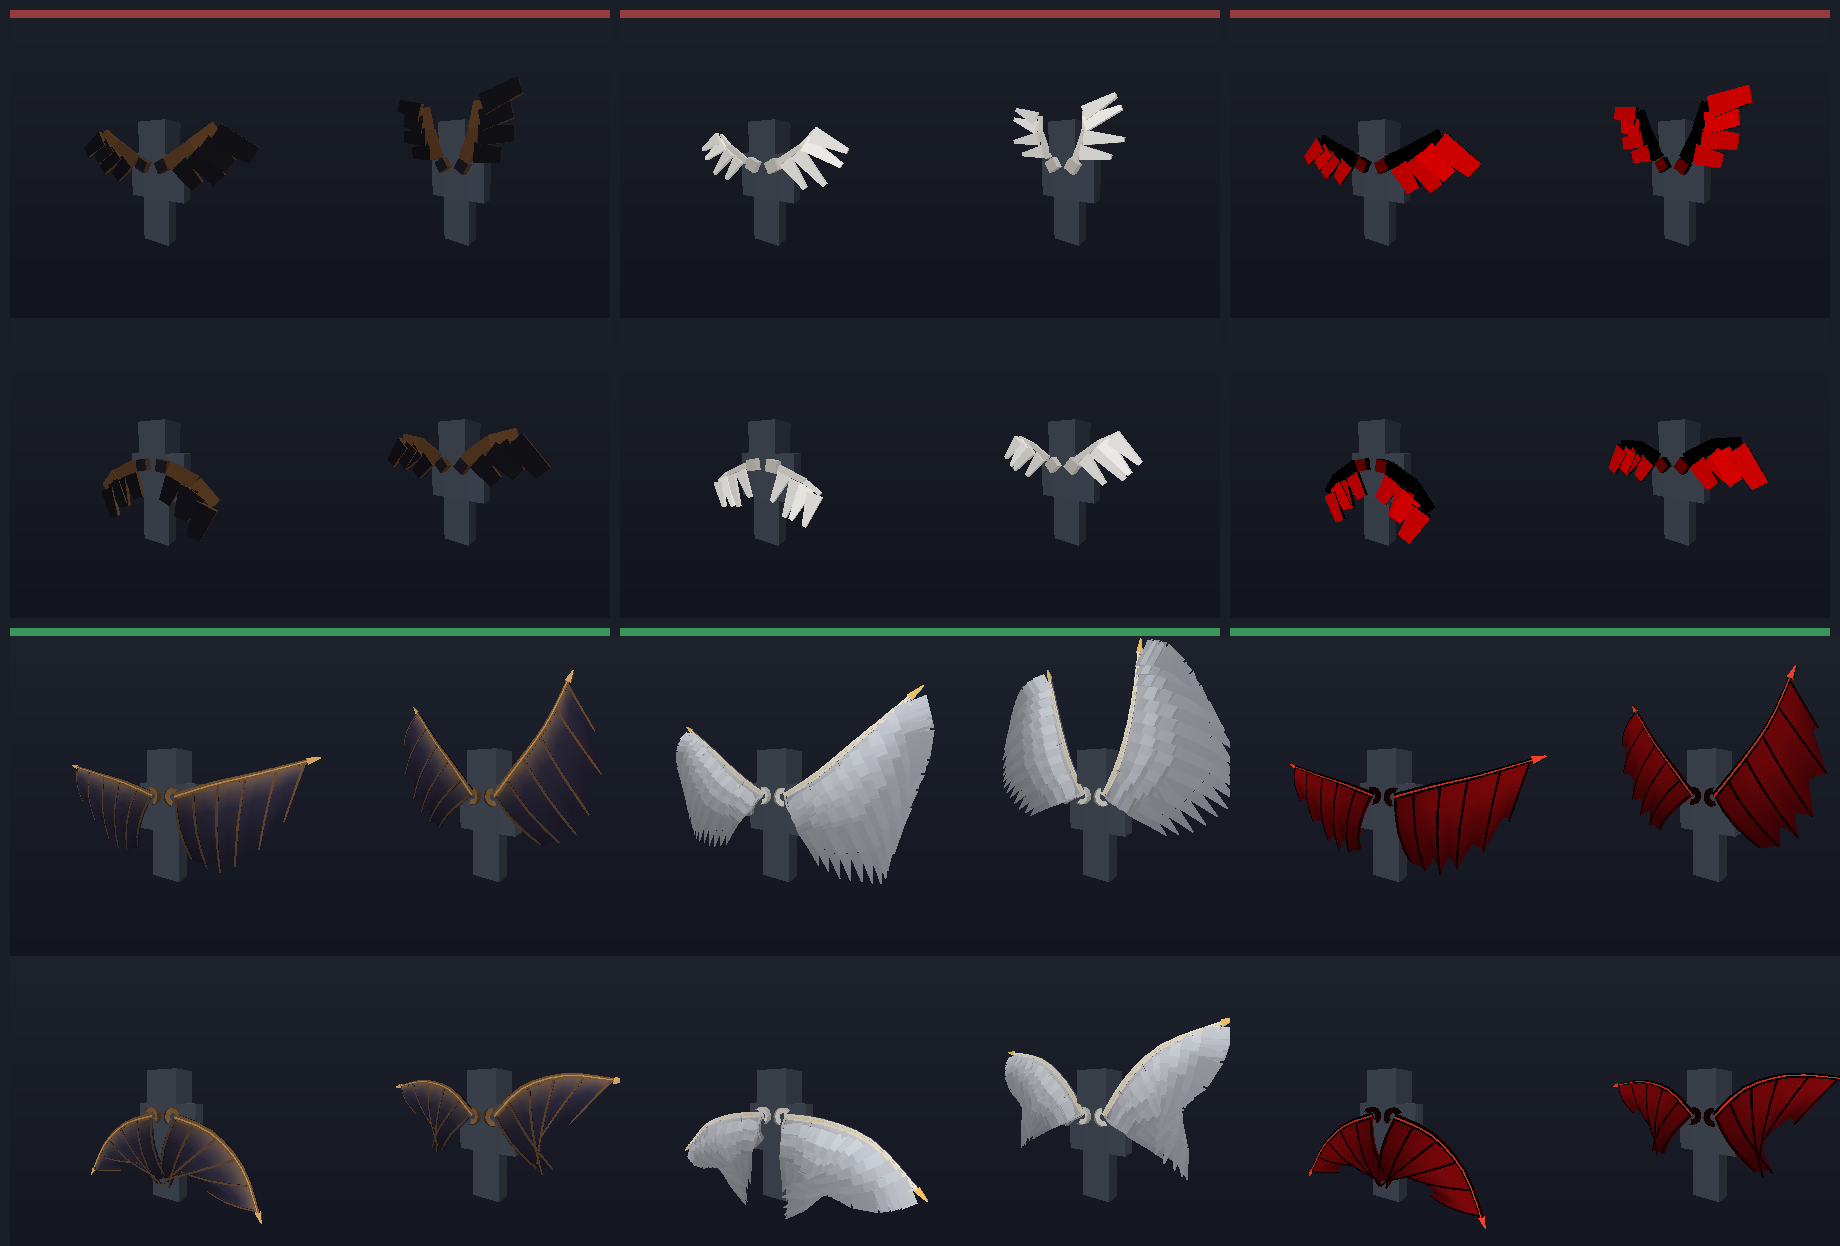
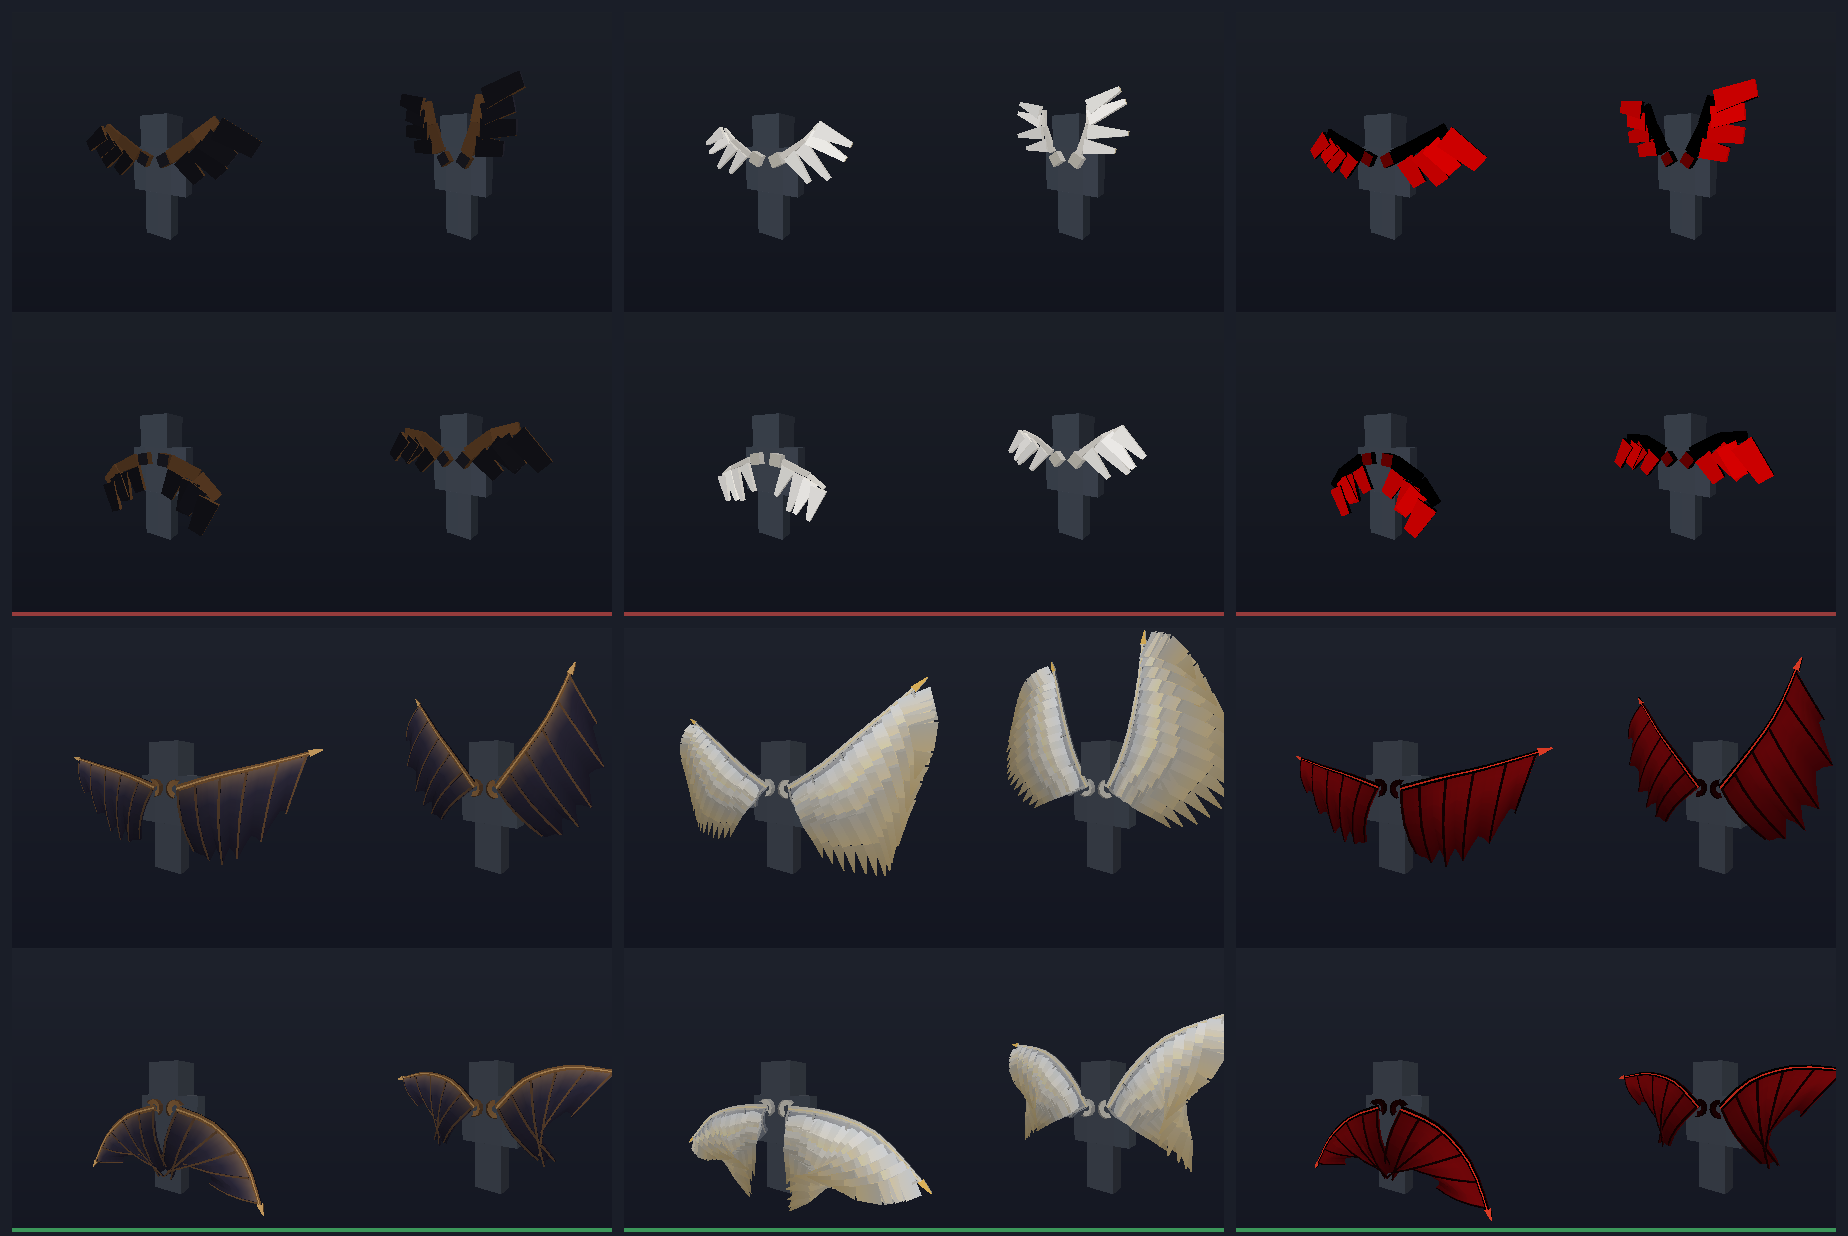
wings: fix washed-out front view (headlight direction, depth material, palette)
Three separate causes made the wings look like a pale sheet painted over the
player whenever the camera faced them from the front:

1. Lighting used the wrong space. The overlay builds its vertices
   camera-relative but accumulated the shading center from WORLD points and
   still negated it, so the headlight actually pointed at the world origin.
   The wings then changed brightness as the player walked around. Added
   wings::toCameraVector(camPos, surfaceCenter) so the two spaces cannot be
   mixed up again, plus host tests that shade the same wing at two world
   positions and assert the result is identical.

2. The fill material was not depth tested. ensureMaterials() preferred
   ui_fill_color, which blockoutline.cpp already documents as having no
   depth test on current builds - that is why the wings / body clipped through
   each other when seen from the front. selection_box (the material the game
   uses for the block highlight) is now preferred.

3. The palette and light model clipped to flat white. The headlight peaked at
   1.18x over an already near-white Angel palette, so everything saturated to
   255 and the gradient disappeared. The light now peaks just under 1.0 (it
   shades the palette down instead of blowing it up), the pale styles got
   deeper base tones, and the body-facing side is now a genuinely darker
   shadowed underside instead of a lighter version of the back.

Also darkened Phoenix (it had gone gold) and regenerated the docs images.

diff --git a/src/modules/visual/wings_design.hpp b/src/modules/visual/wings_design.hpp
@@ -107,11 +107,11 @@ inline constexpr FaceColor kDragonFeatherTip{224, 176, 108};
 inline constexpr FaceColor kDragonJointInner{96, 66, 40};
 
 // Angel: warm-white feathers with gold primary tips.
-inline constexpr FaceColor kAngelFrame{248, 244, 234};
-inline constexpr FaceColor kAngelLead{255, 253, 246};
-inline constexpr FaceColor kAngelBack{190, 192, 198};
-inline constexpr FaceColor kAngelFront{206, 208, 214};
-inline constexpr FaceColor kAngelTrail{142, 146, 156};
+inline constexpr FaceColor kAngelFrame{232, 228, 216};
+inline constexpr FaceColor kAngelLead{244, 240, 228};
+inline constexpr FaceColor kAngelBack{170, 174, 184};
+inline constexpr FaceColor kAngelFront{192, 196, 204};
+inline constexpr FaceColor kAngelTrail{120, 126, 138};
 inline constexpr FaceColor kAngelTip{255, 206, 104};
 inline constexpr FaceColor kAngelGlow{255, 250, 226};
 inline constexpr FaceColor kAngelMembraneOuter{190, 192, 198};
@@ -147,9 +147,9 @@ inline constexpr FaceColor kBatJointInner{38, 35, 48};
 
 // Butterfly: pink forewing over an orange hindwing, cyan accents.
 inline constexpr FaceColor kButterflyFrame{92, 44, 146};
-inline constexpr FaceColor kButterflyLead{255, 186, 226};
-inline constexpr FaceColor kButterflyBack{248, 116, 174};
-inline constexpr FaceColor kButterflyFront{255, 168, 208};
+inline constexpr FaceColor kButterflyLead{250, 172, 216};
+inline constexpr FaceColor kButterflyBack{236, 100, 160};
+inline constexpr FaceColor kButterflyFront{246, 148, 194};
 inline constexpr FaceColor kButterflyTrail{124, 202, 255};
 inline constexpr FaceColor kButterflyTip{255, 224, 128};
 inline constexpr FaceColor kButterflyGlow{255, 216, 240};
@@ -161,22 +161,22 @@ inline constexpr FaceColor kButterflyJointInner{126, 66, 172};
 // Phoenix: fiery orange primaries with gold tips.
 inline constexpr FaceColor kPhoenixFrame{176, 92, 22};
 inline constexpr FaceColor kPhoenixLead{255, 186, 66};
-inline constexpr FaceColor kPhoenixBack{196, 62, 24};
-inline constexpr FaceColor kPhoenixFront{226, 110, 36};
-inline constexpr FaceColor kPhoenixTrail{138, 26, 8};
+inline constexpr FaceColor kPhoenixBack{184, 52, 18};
+inline constexpr FaceColor kPhoenixFront{206, 84, 26};
+inline constexpr FaceColor kPhoenixTrail{118, 20, 6};
 inline constexpr FaceColor kPhoenixTip{255, 240, 148};
 inline constexpr FaceColor kPhoenixGlow{255, 196, 80};
-inline constexpr FaceColor kPhoenixMembraneOuter{196, 62, 24};
-inline constexpr FaceColor kPhoenixMembraneInner{226, 110, 36};
+inline constexpr FaceColor kPhoenixMembraneOuter{184, 52, 18};
+inline constexpr FaceColor kPhoenixMembraneInner{206, 84, 26};
 inline constexpr FaceColor kPhoenixFeatherTip{255, 240, 148};
 inline constexpr FaceColor kPhoenixJointInner{150, 70, 14};
 
 // Fairy: translucent cyan/pink petals.
 inline constexpr FaceColor kFairyFrame{110, 214, 204};
-inline constexpr FaceColor kFairyLead{232, 255, 252};
-inline constexpr FaceColor kFairyBack{142, 224, 246};
-inline constexpr FaceColor kFairyFront{246, 202, 252};
-inline constexpr FaceColor kFairyTrail{92, 176, 198};
+inline constexpr FaceColor kFairyLead{222, 250, 246};
+inline constexpr FaceColor kFairyBack{126, 208, 234};
+inline constexpr FaceColor kFairyFront{234, 184, 244};
+inline constexpr FaceColor kFairyTrail{78, 158, 184};
 inline constexpr FaceColor kFairyTip{255, 255, 250};
 inline constexpr FaceColor kFairyGlow{210, 250, 255};
 inline constexpr FaceColor kFairyMembraneOuter{142, 224, 246};

diff --git a/src/modules/visual/wings_surface.hpp b/src/modules/visual/wings_surface.hpp
@@ -234,14 +234,19 @@ inline FaceColor membraneBackColor(const WingDesign& d, float u, float v) {
     return c;
 }
 
-// Seen from the body: the same sheet lit through (backLight), so the wings do
-// not turn into a black slab when the camera swings in front of them.
+// Seen from in front of the player. This is the side the body shadows, so it is
+// deliberately a darker, flatter version of the palette: no bright leading
+// highlight and no tip colour. Solving it that way keeps the wings readable
+// from a front-facing camera without turning them into a pale sheet that
+// competes with the sky (backLight only softens how dark it gets).
 inline FaceColor membraneFrontColor(const WingDesign& d, float u, float v) {
-    FaceColor c = lerpColor(d.front, d.trail,
-                            std::pow(clamp01(v), 0.95f) * (0.80f - 0.35f * clamp01(d.backLight)));
-    c = lerpColor(c, d.lead, (1.0f - smoothstep(0.0f, 0.30f, v)) * 0.40f);
-    c = lerpColor(c, d.tip, clamp01(d.backLight) * 0.22f * (1.0f - smoothstep(0.1f, 0.6f, v)));
-    c = lerpColor(c, d.trail, (1.0f - smoothstep(0.02f, 0.32f, u)) * 0.28f);
+    const float soften = 1.0f - 0.22f * clamp01(d.backLight);
+    FaceColor c = lerpColor(d.front, d.trail, 0.42f + 0.34f * clamp01(v));
+    // A hint of the leading edge, heavily damped: enough to show the arm line,
+    // not enough to blow out.
+    c = lerpColor(c, d.lead, (1.0f - smoothstep(0.0f, 0.26f, v)) * 0.16f);
+    c = shadeFace(c, soften);
+    c = lerpColor(c, d.trail, (1.0f - smoothstep(0.03f, 0.40f, u)) * 0.30f);
     return c;
 }
 
@@ -555,6 +560,10 @@ inline void addFeathers(Sink& sink, const Vec3 joint[4], const WingDesign& d, co
                 FaceColor f1 = shadeFace(lerpColor(rootFront, d.tip, std::pow(k1, 1.7f)), tint);
                 FaceColor b0 = shadeFace(lerpColor(root, d.trail, 0.30f + 0.25f * k0), tint);
                 FaceColor b1 = shadeFace(lerpColor(root, d.trail, 0.30f + 0.25f * k1), tint);
+                // Front (body-facing) side: the same vane seen in shadow, so it
+                // stays a step darker than the back instead of glowing gold.
+                FaceColor f0Shadow = shadeFace(b0, 0.92f);
+                FaceColor f1Shadow = shadeFace(b1, 0.92f);
                 // Dark rim on the last segment: the shadow each quill casts on
                 // the row below is what makes the feather layers visible.
                 if (s == kFeatherSegments - 1) {
@@ -563,8 +572,8 @@ inline void addFeathers(Sink& sink, const Vec3 joint[4], const WingDesign& d, co
                     b0 = lerpColor(b0, d.trail, 0.22f);
                     b1 = lerpColor(b1, d.trail, 0.42f);
                 }
-                sink.blade(pts[s], pts[s + 1], w0, w1, Vec3{0.0f, 0.0f, 1.0f}, f0, f1, b0, b1, u,
-                           d.glowStrength * 0.30f);
+                sink.blade(pts[s], pts[s + 1], w0, w1, Vec3{0.0f, 0.0f, 1.0f},
+                           f0Shadow, f1Shadow, f0, f1, u, d.glowStrength * 0.30f);
             }
         }
     }

diff --git a/tests/wings_shape_test.cpp b/tests/wings_shape_test.cpp
@@ -360,6 +360,43 @@ int main() {
     }
 
     // ------------------------------------------------------------------
+    // Headlight direction (regression: wings.cpp used to shade with the
+    // negated *world* center, so a wing changed brightness whenever the
+    // player walked somewhere else and looked washed out from the front).
+    // ------------------------------------------------------------------
+    {
+        const wings::Vec3 surface{500.0f, 72.0f, -299.0f};
+        const wings::Vec3 camera{500.0f, 71.5f, -305.0f};
+        const wings::Vec3 toCam = wings::toCameraVector(camera, surface);
+        check(std::fabs(toCam.x - (camera.x - surface.x)) < 1e-6f &&
+                  std::fabs(toCam.y - (camera.y - surface.y)) < 1e-6f &&
+                  std::fabs(toCam.z - (camera.z - surface.z)) < 1e-6f,
+              "toCameraVector points from the surface to the camera");
+
+        // The exact bug: the headlight must not be the negated world center.
+        const wings::Vec3 negatedWorldCenter{-surface.x, -surface.y, -surface.z};
+        check(wings::length(toCam - negatedWorldCenter) > 1.0f,
+              "the headlight vector is not the negated world center");
+
+        // Same geometry, player standing 1000 blocks away: the shading may not
+        // change. Negating the world center fails this check.
+        const wings::Vec3 offset{1234.0f, 64.0f, -987.0f};
+        const wings::Vec3 n{0.0f, 0.0f, 1.0f};
+        const float near = wings::faceBrightness(
+            n, wings::toCameraVector(camera, surface), wings::kDefaultLight);
+        const float far = wings::faceBrightness(
+            n, wings::toCameraVector(camera + offset, surface + offset), wings::kDefaultLight);
+        check(std::fabs(near - far) < 1e-4f,
+              "wing shading does not depend on the player's world position");
+
+        // And the light must actually come from the camera: a surface facing
+        // the camera is brighter than one facing away.
+        const float facing = wings::faceBrightness(n, {0.0f, 0.0f, 1.0f}, wings::kDefaultLight);
+        const float away = wings::faceBrightness(n, {0.0f, 0.0f, -1.0f}, wings::kDefaultLight);
+        check(facing > away, "a surface facing the camera is lit more than one facing away");
+    }
+
+    // ------------------------------------------------------------------
     // Shading model
     // ------------------------------------------------------------------
     std::printf("shading\n");

diff --git a/src/modules/visual/wings.cpp b/src/modules/visual/wings.cpp
@@ -198,11 +198,21 @@ static MaterialPtr getMaterial(const char* name) {
     return reinterpret_cast<getMat_t>(vtable[2])((void*)s_renderMaterialGroup, &hs);
 }
 
+// Material for the membrane quads.
+//
+// Depth test is the requirement here, not looks: the wings are mounted on the
+// player's back, so from the front (or from any tight orbit) the player's body
+// has to occlude them. ui_fill_color is deliberately NOT preferred, even though
+// it gives the cleanest vertex-colour fill: on current Bedrock builds it has no
+// terrain/depth test (see the Through Walls note in blockoutline.cpp), so the
+// whole wing gets painted straight over the torso and reads as a translucent
+// white sheet. selection_box is what the game itself uses for the block
+// highlight - it is depth tested, takes the tessellator colour and alpha.
 static void ensureMaterials() {
     if (!s_renderMaterialGroup) return;
     if (!s_matSelection) s_matSelection = getMaterial("selection_box");
     if (!s_matFill) {
-        static const char* kFillNames[] = { "ui_fill_color", "ui_textured_and_glcolor", "debug_filled_box", "selection_box" };
+        static const char* kFillNames[] = { "selection_box", "debug_filled_box", "ui_fill_color", "ui_textured_and_glcolor" };
         for (const char* n : kFillNames) {
             s_matFill = getMaterial(n);
             if (s_matFill) break;
@@ -264,8 +274,12 @@ static void emitWingQuads(void* tess, const wings::WingQuad* quads, int count,
         }
         center = center * 0.25f;
 
-        // Camera-relative corners, so the view vector is simply -center.
-        const wings::Vec3 toCamera = center * -1.0f;
+        // The headlight vector runs from the surface towards the camera.
+        // `center` is a WORLD point (the corners above are camera-relative),
+        // so it must be subtracted from the camera position - negating it would
+        // treat a world point as camera-relative and point the light at the
+        // world origin, making the wings change brightness as the player moves.
+        const wings::Vec3 toCamera = wings::toCameraVector(cam, center);
         const wings::Vec3 normal = wings::modelDirToWorld(q.n, right, forward);
         const wings::Vec3 litNormal = seeBack ? normal : normal * -1.0f;
 

diff --git a/src/modules/visual/wings_shape.hpp b/src/modules/visual/wings_shape.hpp
@@ -109,12 +109,16 @@ inline FaceColor lerpColor(const FaceColor& a, const FaceColor& b, float t) {
 // silhouette when the sun is behind the player. Range is
 // [ambient, ambient + head + sky].
 struct WingLight {
-    float ambient = 0.56f;
-    float head = 0.30f;
-    float sky = 0.22f;
+    float ambient = 0.52f;
+    float head = 0.26f;
+    float sky = 0.20f;
 };
 
-constexpr WingLight kDefaultLight{0.56f, 0.30f, 0.22f};
+// Peak = ambient + head + sky = 0.98. It deliberately stays just under 1.0: the
+// palette already encodes the target look, so lighting must shade it down, not
+// push it up. With a peak above 1.0 the light palettes (Angel, Fairy) clipped
+// to a flat white sheet and lost every gradient.
+constexpr WingLight kDefaultLight{0.52f, 0.26f, 0.20f};
 
 // How much brighter the wing tips are than the shoulder (spanT 0 -> 1).
 constexpr float kSpanGradient = 0.18f;
@@ -134,6 +138,20 @@ inline float faceBrightness(const Vec3& normal, const Vec3& toCamera, const Wing
 inline float spanTint(float spanT, float boneTint = 1.0f) {
     const float t = spanT < 0.0f ? 0.0f : (spanT > 1.0f ? 1.0f : spanT);
     return boneTint * (1.0f + kSpanGradient * (t - 0.5f));
+}
+
+// Vector from a point on the surface to the camera, used by the overlay's
+// headlight term.
+//
+// This has to be measured between two positions in the SAME space. The overlay
+// builds its vertices camera-relative but computes the shading center in world
+// space, so negating the center there (as if it were already camera-relative)
+// pointed the headlight at the world origin: the wings then changed brightness
+// whenever the player walked somewhere else, which read as a washed-out sheet
+// from one angle and a dark one from another. Named helper + host test so the
+// two spaces cannot be mixed up again.
+inline Vec3 toCameraVector(const Vec3& camPos, const Vec3& surfaceCenter) {
+    return camPos - surfaceCenter;
 }
 
 // ---------------------------------------------------------------------------

diff --git a/README.md b/README.md
@@ -98,7 +98,7 @@ The **Wings** module renders animated 3D wings on your back that flap, idle and 
 - **Vampire Bat** — a narrower crimson membrane with deeper fingers
 - **Red Bat** — the shortest, most saturated bat wing
 
-The wings are a world-space overlay (a `RenderLevel` hook + tessellator); they never touch skin memory and only appear from a third-person point of view. Every style is one continuous membrane instead of a chain of boxes: an articulated arm (shoulder, elbow, wrist) is bent into a smooth leading edge, and a cambered sail hangs off it with a swept, scalloped trailing edge, finger struts, a spar and wing-tip claw, a shoulder fairing and — on the feathered styles — three overlapping rows of quills. The sheet ripples while you flap and goes taut while you glide, and it is shaded per face with a headlight plus a sky lift so it keeps its volume from every angle.
+The wings are a world-space overlay (a `RenderLevel` hook + tessellator); they never touch skin memory and only appear from a third-person point of view. They are drawn with a depth-tested game material, so your body correctly occludes them when the camera swings in front of you, and the side facing the camera is auto-selected: the bright membrane from behind, a darker shadowed underside from the front. Every style is one continuous membrane instead of a chain of boxes: an articulated arm (shoulder, elbow, wrist) is bent into a smooth leading edge, and a cambered sail hangs off it with a swept, scalloped trailing edge, finger struts, a spar and wing-tip claw, a shoulder fairing and — on the feathered styles — three overlapping rows of quills. The sheet ripples while you flap and goes taut while you glide, and it is shaded per face with a headlight plus a sky lift so it keeps its volume from every angle.
 
 ![Wings before and after](docs/wings-before-after.png)
 
